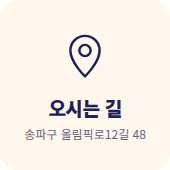
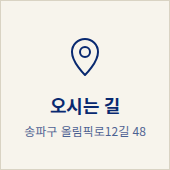
블로그 디자인 v2: 로고 반영, 차분한 신뢰형 톤으로 전면 교체 및 모바일 커버 추가
Claude-Session: https://claude.ai/code/session_01WUCqnetPahfGrkxnyTByXR

diff --git a/academy-blog/src/design.html b/academy-blog/src/design.html
@@ -4,110 +4,142 @@
 <meta charset="utf-8">
 <title>베이직클래스 블로그 디자인</title>
 <!--
-  네이버 블로그 개편용 이미지 원본.
+  네이버 블로그 개편용 이미지 원본 (v2: 로고 반영, 차분한 신뢰형).
   ?part=title   → 타이틀 이미지 (966×440)
   ?part=btn-N   → 위젯 버튼 N (170×170, N=1..5)
-  ?part=preview → 적용 후 모습 미리보기 (966×660)
-  문구·전화번호는 아래 DATA만 고치면 전체에 반영된다.
+  ?part=mobile  → 모바일 커버 (1080×1080)
+  ?part=preview → 적용 후 모습 미리보기
+  로고 원본: logo.jpg (흰 배경 → mix-blend-mode:multiply로 배경에 녹임)
 -->
 <style>
   :root{
-    --navy:#1c2358; --navy-2:#27307a; --ink:#141833;
-    --orange:#ff6a2b; --cream:#fff6ec; --line:rgba(255,255,255,.10);
+    --navy:#082970;       /* 로고 방패 색 */
+    --navy-deep:#061d52;
+    --ink:#16203f;
+    --muted:#5b6380;
+    --ivory:#f7f4ec;
+    --gold:#a88a52;
+    --line:#d9d3c3;
     --kakao:#fee500;
   }
   *{box-sizing:border-box;margin:0;padding:0}
   html,body{background:#fff;font-family:'Noto Sans KR',sans-serif;color:var(--ink);-webkit-font-smoothing:antialiased}
-  .part{display:none}
-  .part.on{display:block}
+  .serif{font-family:'Noto Serif KR',serif}
+  .latin{font-family:'Cormorant Garamond',serif}
+
+  /* 로고 방패 부분만 잘라 쓰기: 원본 1284×1263 중 (245,85)–(1015,805) */
+  .crest{--h:60px;width:calc(var(--h)*770/720);height:var(--h);flex:none;
+    background:url(logo.jpg) no-repeat;
+    background-size:calc(var(--h)*1284/720) auto;
+    background-position:calc(var(--h)*-245/720) calc(var(--h)*-85/720);
+    mix-blend-mode:multiply}
 
   /* ---------- 타이틀 ---------- */
-  .title{
-    position:relative;width:966px;height:440px;overflow:hidden;color:#fff;
-    background:
-      linear-gradient(var(--line) 1px,transparent 1px) 0 0/24px 24px,
-      linear-gradient(90deg,var(--line) 1px,transparent 1px) 0 0/24px 24px,
-      radial-gradient(120% 90% at 85% 10%,var(--navy-2) 0%,var(--navy) 55%,#141a45 100%);
-  }
-  .bar{position:absolute;left:40px;right:40px;top:26px;display:flex;align-items:center;justify-content:space-between}
-  .logo{display:flex;align-items:baseline;gap:10px}
-  .logo b{font-family:'Black Han Sans';font-weight:400;font-size:30px;letter-spacing:-.5px}
-  .logo span{font-size:12px;font-weight:700;letter-spacing:3px;color:rgba(255,255,255,.55)}
-  .tel{font-size:13px;color:rgba(255,255,255,.7);display:flex;align-items:baseline;gap:8px}
-  .tel strong{font-size:24px;font-weight:900;color:var(--orange);letter-spacing:-.3px}
-  .rule{position:absolute;left:40px;right:40px;top:78px;height:1px;background:rgba(255,255,255,.18)}
+  .title{position:relative;width:966px;height:440px;overflow:hidden;background:var(--ivory);isolation:isolate}
+  .title::after{content:"";position:absolute;inset:14px;border:1px solid var(--line);pointer-events:none}
+  .bar{position:absolute;left:44px;right:44px;top:30px;display:flex;align-items:center;justify-content:space-between}
+  .brand{display:flex;align-items:center;gap:14px}
+  .brand .crest{--h:58px}
+  .brand b{display:block;font-size:26px;font-weight:900;letter-spacing:-.5px;color:var(--ink)}
+  .brand small{display:block;font-size:13px;letter-spacing:4px;color:var(--navy);margin-top:1px}
+  .tel{text-align:right}
+  .tel span{display:block;font-size:12px;color:var(--muted);letter-spacing:1px}
+  .tel strong{font-size:26px;font-weight:700;color:var(--navy);letter-spacing:-.3px}
+  .rule{position:absolute;left:44px;right:44px;top:108px;height:1px;background:var(--line)}
 
-  .hero{position:absolute;left:40px;top:118px;width:470px}
-  .chip{display:inline-block;font-size:13px;font-weight:700;padding:6px 12px;border-radius:999px;
-        background:rgba(255,106,43,.16);color:#ffb08c;border:1px solid rgba(255,106,43,.45)}
-  .hero h1{margin-top:18px;font-size:44px;line-height:1.22;font-weight:900;letter-spacing:-1.5px}
-  .hero h1 em{font-style:normal;color:var(--orange)}
-  .hero p{margin-top:18px;font-size:16px;line-height:1.6;color:rgba(255,255,255,.78)}
-  .subjects{margin-top:22px;display:flex;gap:6px}
-  .subjects i{font-style:normal;font-size:14px;font-weight:700;width:46px;height:46px;border-radius:12px;
-        display:grid;place-items:center;background:rgba(255,255,255,.08);border:1px solid rgba(255,255,255,.16)}
+  .hero{position:absolute;left:44px;top:136px;width:460px}
+  .eyebrow{font-size:13px;font-weight:700;color:var(--gold);letter-spacing:1px}
+  .hero h1{margin-top:14px;font-size:40px;line-height:1.3;font-weight:700;letter-spacing:-1px;color:var(--ink)}
+  .hero h1 em{font-style:normal;color:var(--navy);box-shadow:inset 0 -10px 0 rgba(168,138,82,.22)}
+  .hero p{margin-top:16px;font-size:15.5px;line-height:1.7;color:var(--muted)}
+  .facts{margin-top:20px;display:flex;border-top:1px solid var(--line);border-bottom:1px solid var(--line)}
+  .facts div{flex:1;padding:10px 0;text-align:center;font-size:14px;font-weight:700;color:var(--navy)}
+  .facts div+div{border-left:1px solid var(--line)}
 
-  .grades{position:absolute;right:40px;top:112px;width:360px;display:flex;flex-direction:column;gap:12px}
-  .grade{display:flex;align-items:center;gap:16px;padding:18px 20px;border-radius:16px;
-         background:#fff;color:var(--ink);box-shadow:0 10px 24px rgba(0,0,0,.22)}
-  .grade .no{flex:none;width:52px;height:52px;border-radius:14px;display:grid;place-items:center;
-         font-family:'Black Han Sans';font-size:22px;color:#fff;background:var(--navy)}
-  .grade:nth-child(2) .no{background:var(--navy-2)}
-  .grade:nth-child(3) .no{background:var(--orange)}
-  .grade h3{font-size:19px;font-weight:900;letter-spacing:-.5px}
-  .grade p{font-size:13.5px;color:#5a5f7a;margin-top:2px}
-  .grade .go{margin-left:auto;font-size:20px;color:#b5b9cc;font-weight:700}
+  .grades{position:absolute;right:44px;top:136px;width:356px;display:flex;flex-direction:column;gap:12px}
+  .grade{display:flex;align-items:center;gap:16px;padding:16px 20px;background:#fff;border:1px solid var(--line);border-left:4px solid var(--navy)}
+  .grade .no{flex:none;width:48px;height:48px;border-radius:50%;display:grid;place-items:center;
+     font-size:19px;font-weight:700;color:var(--navy);border:1.5px solid var(--navy)}
+  .grade h3{font-size:18px;font-weight:700;letter-spacing:-.3px}
+  .grade p{font-size:13.5px;color:var(--muted);margin-top:2px}
+  .watermark{position:absolute;right:-40px;bottom:-70px;opacity:.07}
+  .watermark .crest{--h:360px}
 
   /* ---------- 버튼 위젯 ---------- */
-  .btn{width:170px;height:170px;border-radius:18px;display:flex;flex-direction:column;align-items:center;
-       justify-content:center;gap:12px;background:var(--navy);color:#fff;text-align:center}
-  .btn svg{width:54px;height:54px;stroke:currentColor;fill:none;stroke-width:2.2;stroke-linecap:round;stroke-linejoin:round}
-  .btn b{font-size:19px;font-weight:900;letter-spacing:-.5px}
-  .btn small{font-size:12px;opacity:.7;margin-top:-8px}
-  .btn.alt{background:var(--navy-2)}
-  .btn.light{background:var(--cream);color:var(--navy)}
+  .btn{width:170px;height:170px;display:flex;flex-direction:column;align-items:center;justify-content:center;gap:12px;
+       background:var(--navy);color:#fff;text-align:center}
+  .btn svg{width:48px;height:48px;stroke:currentColor;fill:none;stroke-width:2;stroke-linecap:round;stroke-linejoin:round}
+  .btn b{font-size:18px;font-weight:700;letter-spacing:-.3px}
+  .btn small{font-size:12px;opacity:.72;margin-top:-8px}
+  .btn.deep{background:var(--navy-deep)}
+  .btn.ivory{background:var(--ivory);color:var(--navy);box-shadow:inset 0 0 0 1px var(--line)}
   .btn.kakao{background:var(--kakao);color:#3a1d1d}
-  .btn.call{background:var(--orange)}
-  .btn.call b.num{font-size:17px;letter-spacing:-.2px}
+  .btn.call{background:#fff;color:var(--navy);box-shadow:inset 0 0 0 2px var(--navy)}
+  .btn.call .num{font-size:17px;font-weight:700;margin-top:-4px}
+
+  /* ---------- 모바일 커버 ---------- */
+  .mobile{position:relative;width:1080px;height:1080px;background:var(--ivory);display:flex;flex-direction:column;
+          align-items:center;justify-content:center;text-align:center;overflow:hidden;isolation:isolate}
+  .mobile::after{content:"";position:absolute;inset:36px;border:2px solid var(--line)}
+  .mobile .crest{--h:230px}
+  .mobile .name{margin-top:26px;font-size:64px;font-weight:900;letter-spacing:-1px}
+  .mobile .slogan{font-size:30px;letter-spacing:10px;color:var(--navy);margin-top:4px}
+  .mobile h1{margin-top:56px;font-size:58px;line-height:1.35;font-weight:700;letter-spacing:-1.5px}
+  .mobile h1 em{font-style:normal;color:var(--navy);box-shadow:inset 0 -16px 0 rgba(168,138,82,.22)}
+  .mobile .sub{margin-top:30px;font-size:30px;color:var(--muted)}
+  .mobile .mtel{margin-top:44px;font-size:44px;font-weight:700;color:var(--navy)}
 
   /* ---------- 미리보기 ---------- */
   .preview{width:966px;background:#fff}
   .row{display:flex;justify-content:space-between;padding:24px 0 26px}
   .notice{margin:0 0 24px;border-top:2px solid var(--navy);font-size:13px;color:#555}
   .notice div{padding:10px 4px;border-bottom:1px solid #e6e7ee}
-  .notice span{color:var(--orange);font-weight:700;margin-right:8px}
+  .notice span{color:var(--navy);font-weight:700;margin-right:8px}
 </style>
 </head>
 <body>
 
 <template id="title-tpl">
   <div class="title">
+    <div class="watermark"><div class="crest"></div></div>
     <div class="bar">
-      <div class="logo"><b>베이직클래스</b><span>BASIC CLASS</span></div>
-      <div class="tel">전화상담 <strong>0507-1480-3536</strong></div>
+      <div class="brand"><div class="crest"></div>
+        <div><b>베이직클래스</b><small class="latin">FROM THE BASICS</small></div></div>
+      <div class="tel"><span>전화 상담</span><strong>0507-1480-3536</strong></div>
     </div>
     <div class="rule"></div>
     <div class="hero">
-      <span class="chip">잠실본동 · 초·중·고 전과목 소수정예</span>
-      <h1>원장이 직접 가르치고<br><em>끝까지</em> 확인합니다.</h1>
-      <p>학생 한 명 한 명의 빈틈을 찾아 채우는<br>소수정예 맞춤 지도 · 학교별 꼼꼼한 내신 대비</p>
-      <div class="subjects"><i>수학</i><i>영어</i><i>국어</i><i>사회</i><i>과학</i></div>
+      <div class="eyebrow">잠실본동 · 초·중·고 전과목 소수정예</div>
+      <h1 class="serif">기본부터 바로 세우고,<br><em>끝까지</em> 확인합니다.</h1>
+      <p>원장이 직접 가르치는 소수정예 수업으로<br>학생 한 명 한 명의 빈틈을 찾아 채웁니다.</p>
+      <div class="facts"><div>원장 직강</div><div>소수정예</div><div>학교별 내신</div></div>
     </div>
     <div class="grades">
-      <div class="grade"><div class="no">초</div><div><h3>초등부</h3><p>개념 이해와 바른 공부 습관</p></div></div>
-      <div class="grade"><div class="no">중</div><div><h3>중등부</h3><p>학교별 내신 · 탄탄한 현행</p></div></div>
-      <div class="grade"><div class="no">고</div><div><h3>고등부</h3><p>내신 관리와 수능 기초</p></div></div>
+      <div class="grade"><div class="no serif">초</div><div><h3>초등부</h3><p>개념 이해와 바른 공부 습관</p></div></div>
+      <div class="grade"><div class="no serif">중</div><div><h3>중등부</h3><p>학교별 내신 · 탄탄한 현행</p></div></div>
+      <div class="grade"><div class="no serif">고</div><div><h3>고등부</h3><p>내신 관리와 수능 기초</p></div></div>
     </div>
   </div>
 </template>
 
+<template id="mobile-tpl">
+  <div class="mobile">
+    <div class="crest"></div>
+    <div class="name">베이직클래스</div>
+    <div class="slogan latin">FROM THE BASICS</div>
+    <h1 class="serif">기본부터 바로 세우고,<br><em>끝까지</em> 확인합니다.</h1>
+    <div class="sub">잠실본동 · 초·중·고 전과목 · 원장 직강 소수정예</div>
+    <div class="mtel">☎ 0507-1480-3536</div>
+  </div>
+</template>
+
 <template id="btn-1"><div class="btn">
-  <svg viewBox="0 0 48 48"><rect x="6" y="8" width="36" height="24" rx="3"/><path d="M14 40h20M24 32v8M13 17h14M13 23h9"/></svg>
+  <svg viewBox="0 0 48 48"><path d="M24 12c-5-3-11-4-17-3v27c6-1 12 0 17 3 5-3 11-4 17-3V9c-6-1-12 0-17 3zM24 12v27"/></svg>
   <b>수업 안내</b><small>학년·과목별 과정</small></div></template>
-<template id="btn-2"><div class="btn alt">
-  <svg viewBox="0 0 48 48"><rect x="7" y="9" width="34" height="32" rx="3"/><path d="M7 18h34M16 5v8M32 5v8M14 26h6M28 26h6M14 33h6"/></svg>
-  <b>시간표·수강료</b><small>교습비 게시</small></div></template>
-<template id="btn-3"><div class="btn light">
+<template id="btn-2"><div class="btn deep">
+  <svg viewBox="0 0 48 48"><rect x="7" y="9" width="34" height="32" rx="2"/><path d="M7 18h34M16 5v8M32 5v8M14 26h6M28 26h6M14 33h6"/></svg>
+  <b>시간표·교습비</b><small>학년별 시간표</small></div></template>
+<template id="btn-3"><div class="btn ivory">
   <svg viewBox="0 0 48 48"><path d="M24 43s13-12.5 13-23a13 13 0 0 0-26 0c0 10.5 13 23 13 23z"/><circle cx="24" cy="20" r="5"/></svg>
   <b>오시는 길</b><small>송파구 올림픽로12길 48</small></div></template>
 <template id="btn-4"><div class="btn kakao">
@@ -115,7 +147,7 @@
   <b>카톡 상담</b><small>방문 상담 예약</small></div></template>
 <template id="btn-5"><div class="btn call">
   <svg viewBox="0 0 48 48"><path d="M17 7l-6 1c-2 .5-3.5 2.5-3 4.7C11 26 22 37 35.3 40c2.2.5 4.2-1 4.7-3l1-6-8-4-4 4c-5-2.5-9.5-7-12-12l4-4z"/></svg>
-  <b>전화 상담</b><b class="num">0507-1480-3536</b></div></template>
+  <b>전화 상담</b><span class="num">0507-1480-3536</span></div></template>
 
 <div id="out"></div>
 
@@ -124,6 +156,7 @@
   const out = document.getElementById('out');
   const clone = id => document.getElementById(id).content.cloneNode(true);
   if (part === 'title') out.appendChild(clone('title-tpl'));
+  else if (part === 'mobile') out.appendChild(clone('mobile-tpl'));
   else if (part.startsWith('btn-')) out.appendChild(clone(part));
   else {
     const p = document.createElement('div'); p.className = 'preview';

diff --git a/academy-blog/블로그_개편안.md b/academy-blog/블로그_개편안.md
@@ -3,7 +3,8 @@
 - 대상: https://blog.naver.com/basic9265
 - 학원: 베이직클래스 (서울 송파구 잠실본동, 올림픽로12길 48 301호) · 초·중·고 전과목 · 소수정예
 - 개편 목적: **① 지역 검색 노출 증가 ② 신규 상담 전환 증가**
-- 결과물: `images/` (적용용 PNG), `src/design.html` (이미지 원본 — 문구 수정 후 재출력 가능)
+- 결과물: `images/` (적용용 PNG), `src/design.html` + `src/logo.jpg` (이미지 원본 — 문구 수정 후 재출력 가능)
+- 디자인 방향: 로고 기반, 신뢰감 있는 차분한 톤 (v2)
 
 ---
 
@@ -26,7 +27,7 @@
 | 4 | 스톡 모델 사진 | 학원 실체가 드러나지 않아 차별성이 없음 | 실제 교실·원장 사진으로 교체 권장(초상권 동의 필수) |
 | 5 | 공지 제목의 **키워드 나열** ("잠실 초등 수학 학원, 잠실 중등 수학 학원, 잠실 고등 수학 학원") | 검색 품질 평가에서 불리할 수 있고, 사람이 읽기에도 어색함 | 제목은 "지역+학년+과목" 1회 + 구체적 주제로 작성 (5장) |
 | 6 | 최신 공지가 2024년 | 운영하지 않는 학원처럼 보임 | 고정 글 교체 + 주 2회 연재 |
-| 7 | 버튼 5개 중 "베이직 클래스를 만나면 성적이 달라집니다"는 기능이 없는 문구 | 클릭해도 목적지가 불분명함 | "시간표·수강료" 버튼으로 교체 |
+| 7 | 버튼 5개 중 "베이직 클래스를 만나면 성적이 달라집니다"는 기능이 없는 문구 | 클릭해도 목적지가 불분명함 | "시간표·교습비" 버튼으로 교체 |
 
 ---
 
@@ -38,13 +39,15 @@
 |---|---|---|---|
 | 타이틀 이미지 | `images/title_966x440.png` | 966×440 | 브랜드·핵심 메시지·학년 안내·전화번호 |
 | 위젯 ① 수업 안내 | `images/btn1_170x170.png` | 170×170 | → 학년별 수업 안내 고정 글 |
-| 위젯 ② 시간표·수강료 | `images/btn2_170x170.png` | 170×170 | → 시간표·교습비 게시 글 |
+| 위젯 ② 시간표·교습비 | `images/btn2_170x170.png` | 170×170 | → 시간표·교습비 게시 글 |
 | 위젯 ③ 오시는 길 | `images/btn3_170x170.png` | 170×170 | → 네이버 지도(플레이스) 링크 |
 | 위젯 ④ 카톡 상담 | `images/btn4_170x170.png` | 170×170 | → 카카오톡 채널 채팅 링크 |
 | 위젯 ⑤ 전화 상담 | `images/btn5_170x170.png` | 170×170 | → 상담 예약 안내 글 (PC에서는 `tel:` 링크가 동작하지 않음) |
+| 모바일 커버 | `images/mobile_cover_1080.png` | 1080×1080 | 블로그 앱 홈 커버 (4장) |
 
 **메시지 설계 원칙**
-- 헤드라인은 하나만 둡니다: "원장이 직접 가르치고 **끝까지** 확인합니다." 원장 직강과 소수정예라는 실제 강점을 한 문장으로 묶은 것입니다.
+- 헤드라인은 하나만 둡니다: "기본부터 바로 세우고, **끝까지** 확인합니다." 로고 슬로건 FROM THE BASICS를 한국어로 풀고, 원장 직강·소수정예의 강점(끝까지 확인)을 이었습니다.
+- 톤: 로고 방패의 남색(`#082970`)을 주색으로, 아이보리 바탕과 명조 제목으로 차분하고 신뢰감 있게 구성했습니다. 강조색은 채도가 낮은 금색 한 가지만 씁니다. 카톡 버튼만 노란색을 유지하는데, 학부모가 한눈에 알아보기 때문입니다.
 - 성적 향상 수치나 합격 실적처럼 **검증 자료가 없는 주장은 넣지 않았습니다.** 넣으려면 기간·표본·산출 기준을 함께 표시해야 합니다(6장).
 - 학년 카드의 문구(예: "개념 이해와 바른 공부 습관")는 초안입니다. 실제 커리큘럼에 맞게 `src/design.html`에서 고친 뒤 다시 출력하면 됩니다.
 
@@ -58,7 +61,7 @@
 2. **타이틀**(리모콘 → 타이틀)
    - 블로그 제목 표시: **끔** (이미지에 이미 로고가 있음)
    - 디자인: 직접 등록 → `title_966x440.png` 업로드, 영역 높이 440px
-   - 배경: 이미지 **반복 없음**, 배경색 `#1C2358`로 지정 → 넓은 화면에서도 남색 띠가 자연스럽게 이어짐 (**1장 #1 해결**)
+   - 배경: 이미지 **반복 없음**, 배경색 `#F7F4EC`(아이보리)로 지정 → 넓은 화면에서도 타이틀 띠가 자연스럽게 이어짐 (**1장 #1 해결**)
 3. **스킨 배경**(리모콘 → 스킨 배경): 기존 배경 이미지 삭제 → 단색 `#FFFFFF`
 4. **위젯 5개 등록**(레이아웃·위젯 설정 → 위젯 직접등록)
    - 버튼 PNG 5개를 **비공개 글 하나에 업로드**하고, 각 이미지의 주소를 복사합니다.
@@ -76,7 +79,7 @@
 
 모바일 블로그 앱과 모바일 웹에는 PC 타이틀과 위젯이 나오지 않습니다. 모바일 방문자에게는 아래 세 가지가 첫인상입니다.
 
-1. **모바일 커버 이미지**(블로그 앱 → 내 블로그 → 홈 편집): 타이틀 이미지의 왼쪽 메시지 부분만 잘라 사용합니다. 학년 카드는 빼는 것을 권합니다.
+1. **모바일 커버 이미지**(블로그 앱 → 내 블로그 → 홈 편집): `images/mobile_cover_1080.png`(1080×1080)을 사용합니다. 로고·슬로건·헤드라인·전화번호만 넣었습니다.
 2. **대표 글(공지) 3개 고정**
    - [필독] 베이직클래스 학년별 수업 안내 (초등부·중등부·고등부)
    - [시간표·교습비] 2026년 ○학기 시간표와 교습비
